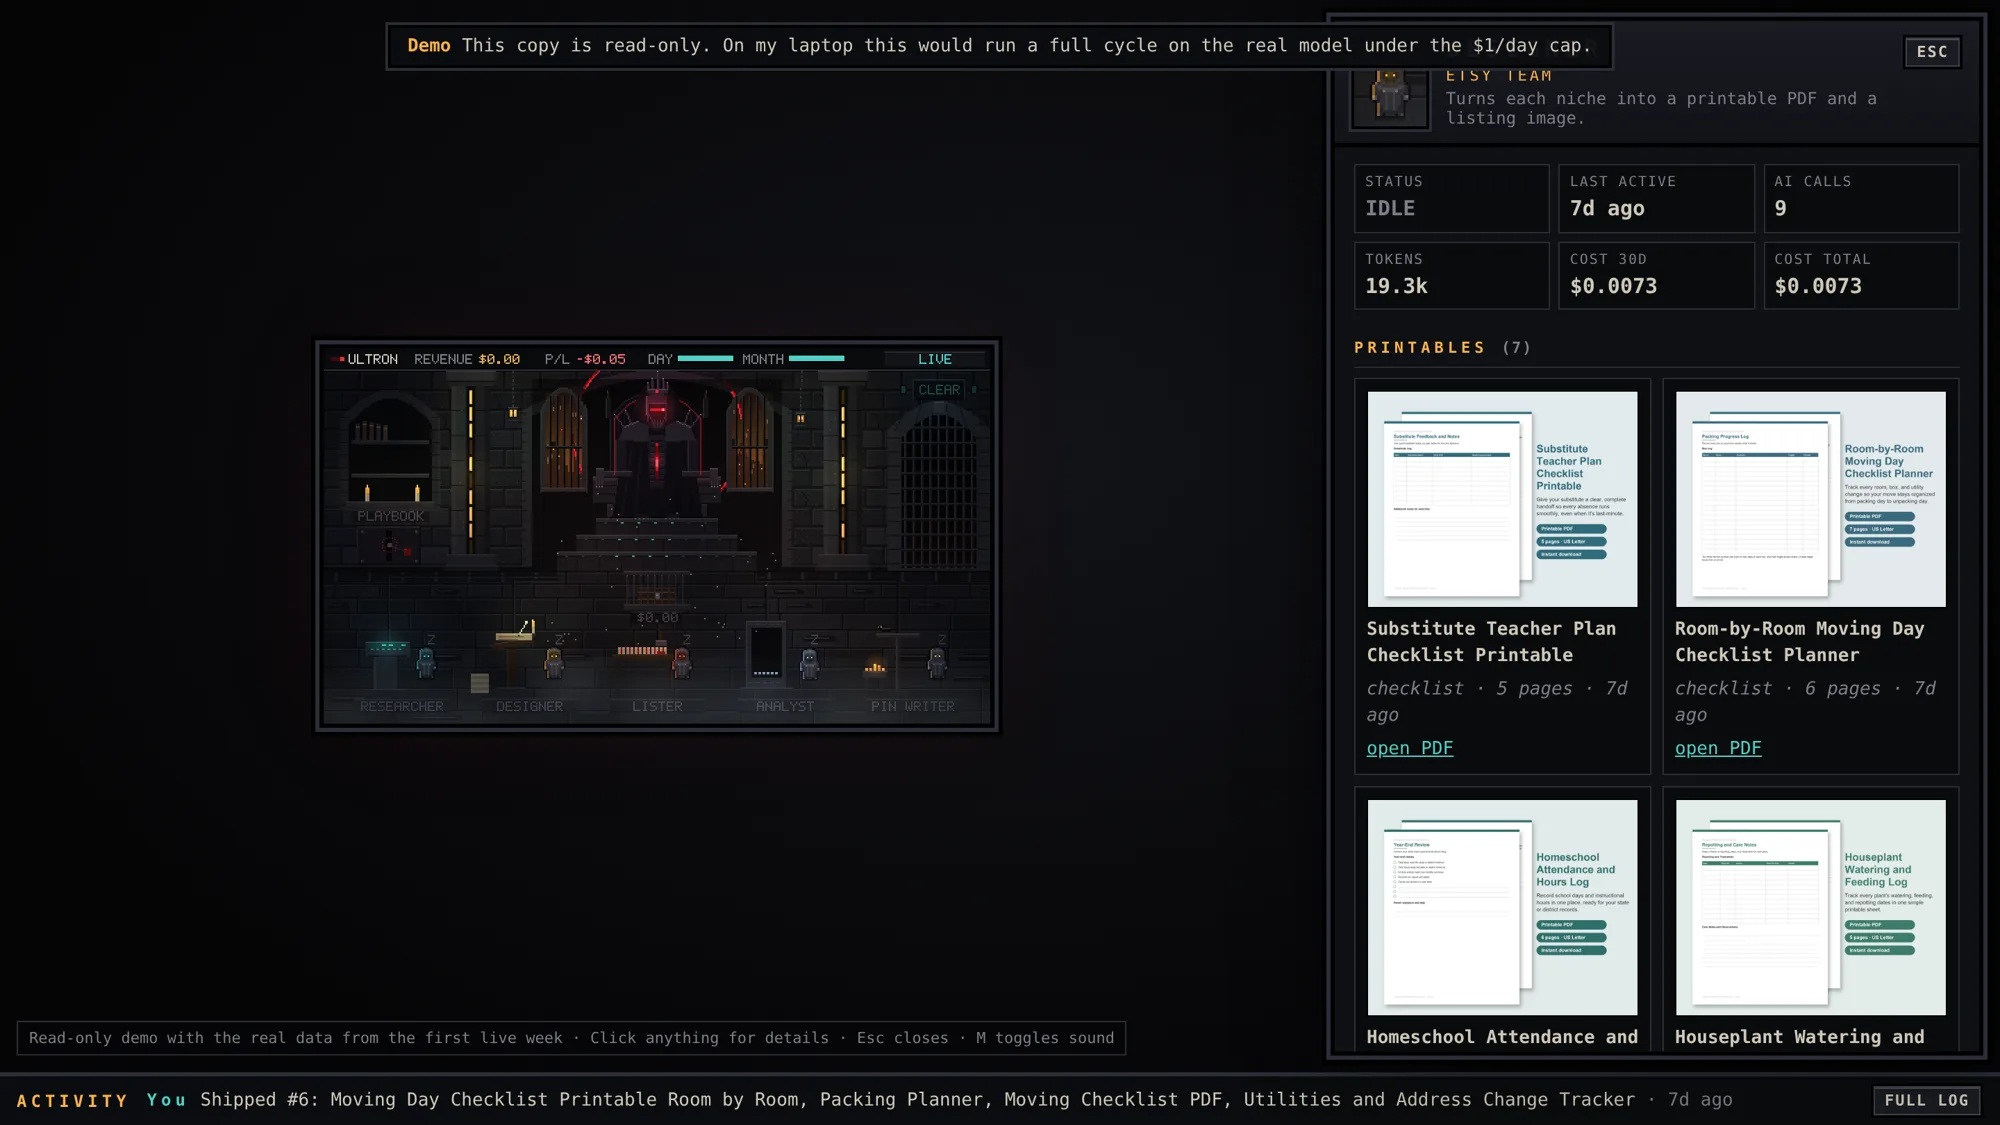
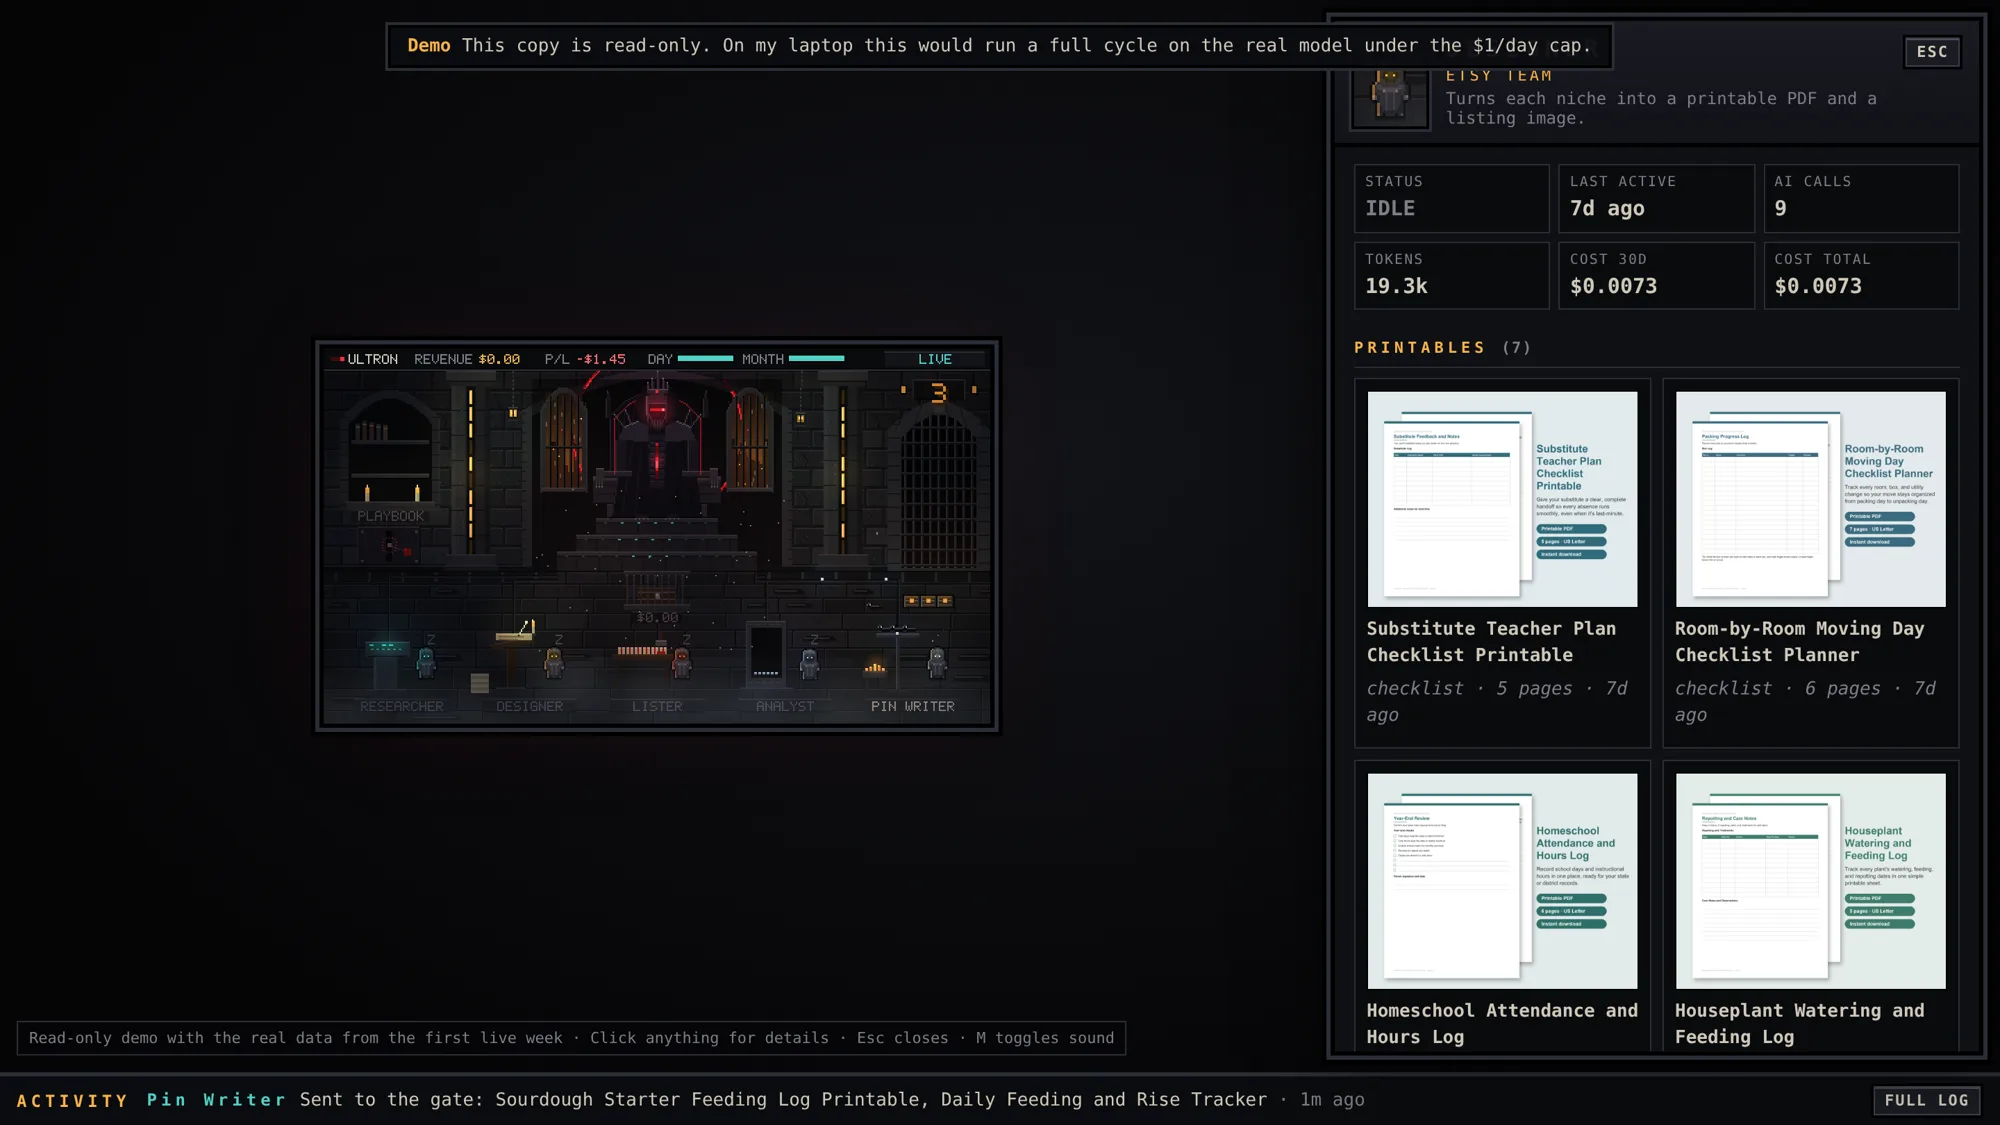
Ultron: listings live, first pins, refreshed HQ demo
Claude-Session: https://claude.ai/code/session_01GMuJmbHZ1M4n2sbKuY66q2

diff --git a/src/content/projects/ultron.md b/src/content/projects/ultron.md
@@ -54,8 +54,8 @@ In November 2026 I switched Ultron from free test mode to Claude and connected i
 - **7 printables designed and sent to Etsy as drafts** through the API, each after I approved it.
 - **I cut 5 of the 7 prices to $1.99.** Each change went into the playbook as a lesson, so the lister's next prices start lower.
 
-Revenue is still $0. Etsy drafts aren't public, so nothing has had a chance to sell yet, and Ultron's own memo says the same: no sales data means no real verdict.
+A week later I made all seven live. That cost $1.40 in Etsy fees, which Ultron books as costs like its AI spend, so its profit line reads -$1.45. The Pinterest team then wrote its first three pins to send people to them, and they're waiting at the gate for my approval. Revenue is still $0, and Ultron's own memo says the same thing I would: until there are views and sales, there's no real verdict.
 
 ## Status
 
-In development. The next step is to activate the listings, which costs $0.20 each, and turn on the Pinterest team so they get traffic. Then the allocation loop can start working on real numbers. After that, I plan to move the models onto the PC I built and add teams for other ways of earning. The goal is to see how far a small team of agents can get on a tight budget, not to get rich.
+In development. The listings are live and the first pins are waiting for my approval. Now the allocation loop gets real views and sales to work with. After that, I plan to move the models onto the PC I built and add teams for other ways of earning. The goal is to see how far a small team of agents can get on a tight budget, not to get rich.
